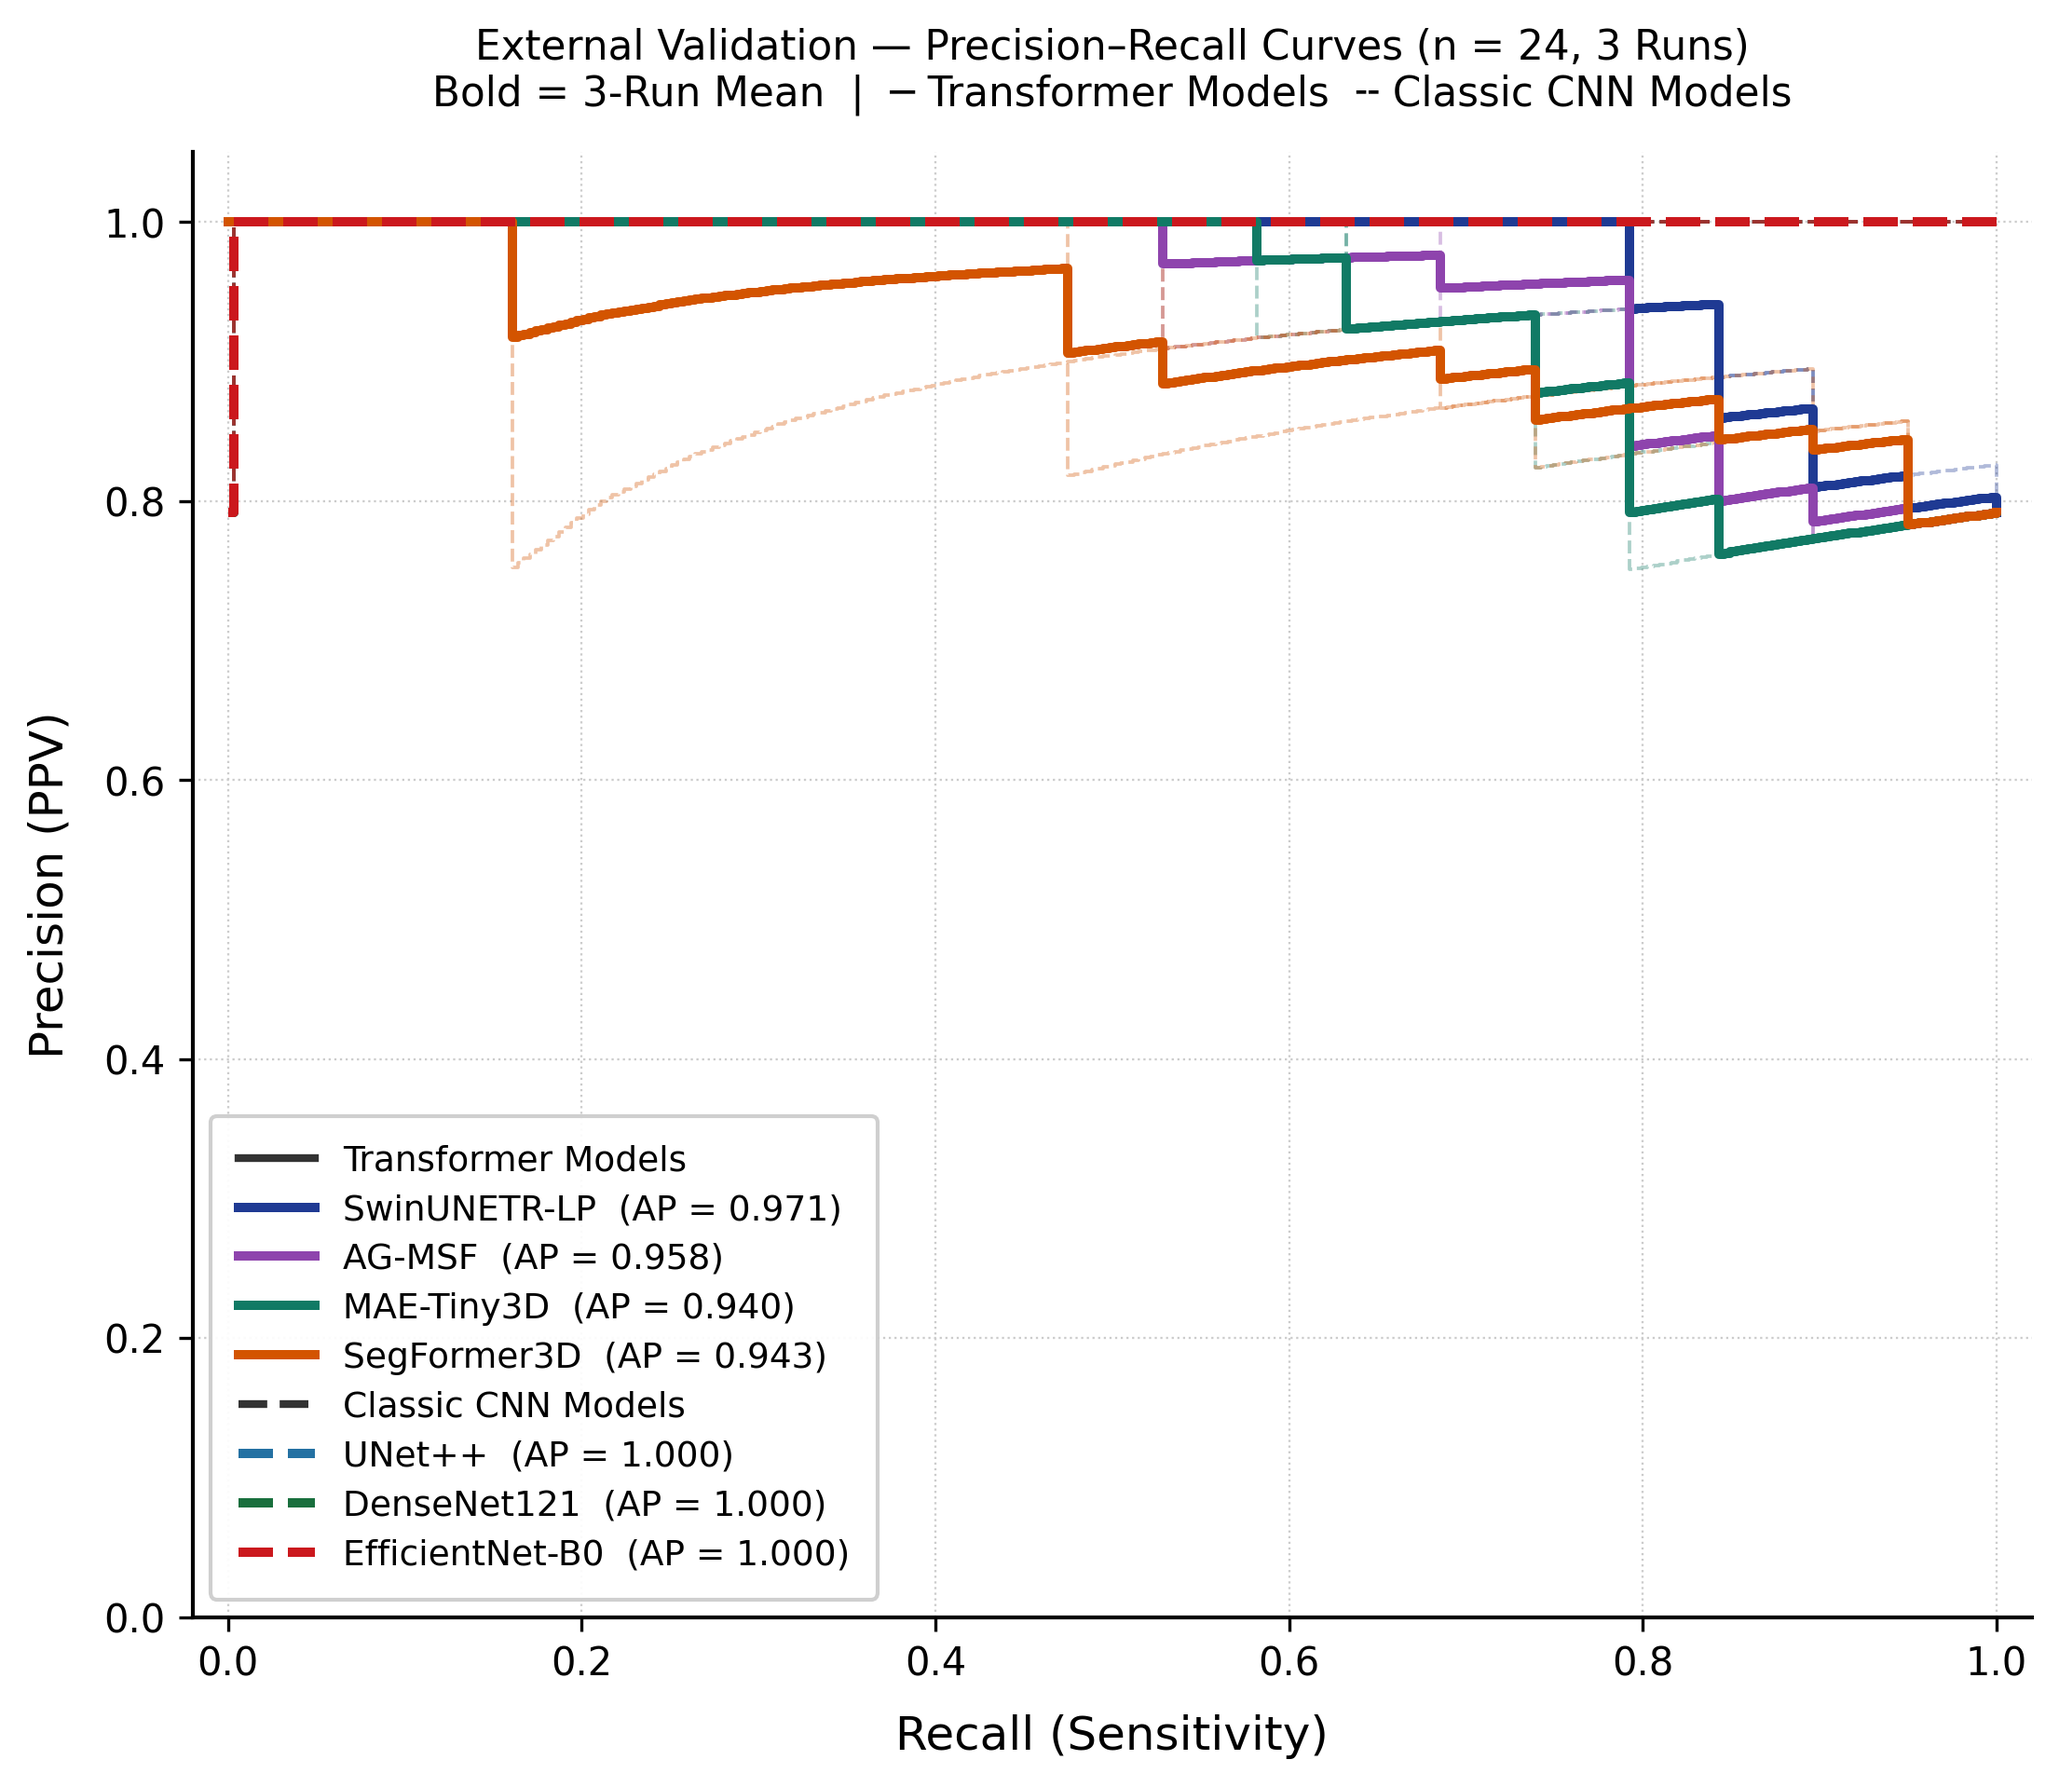
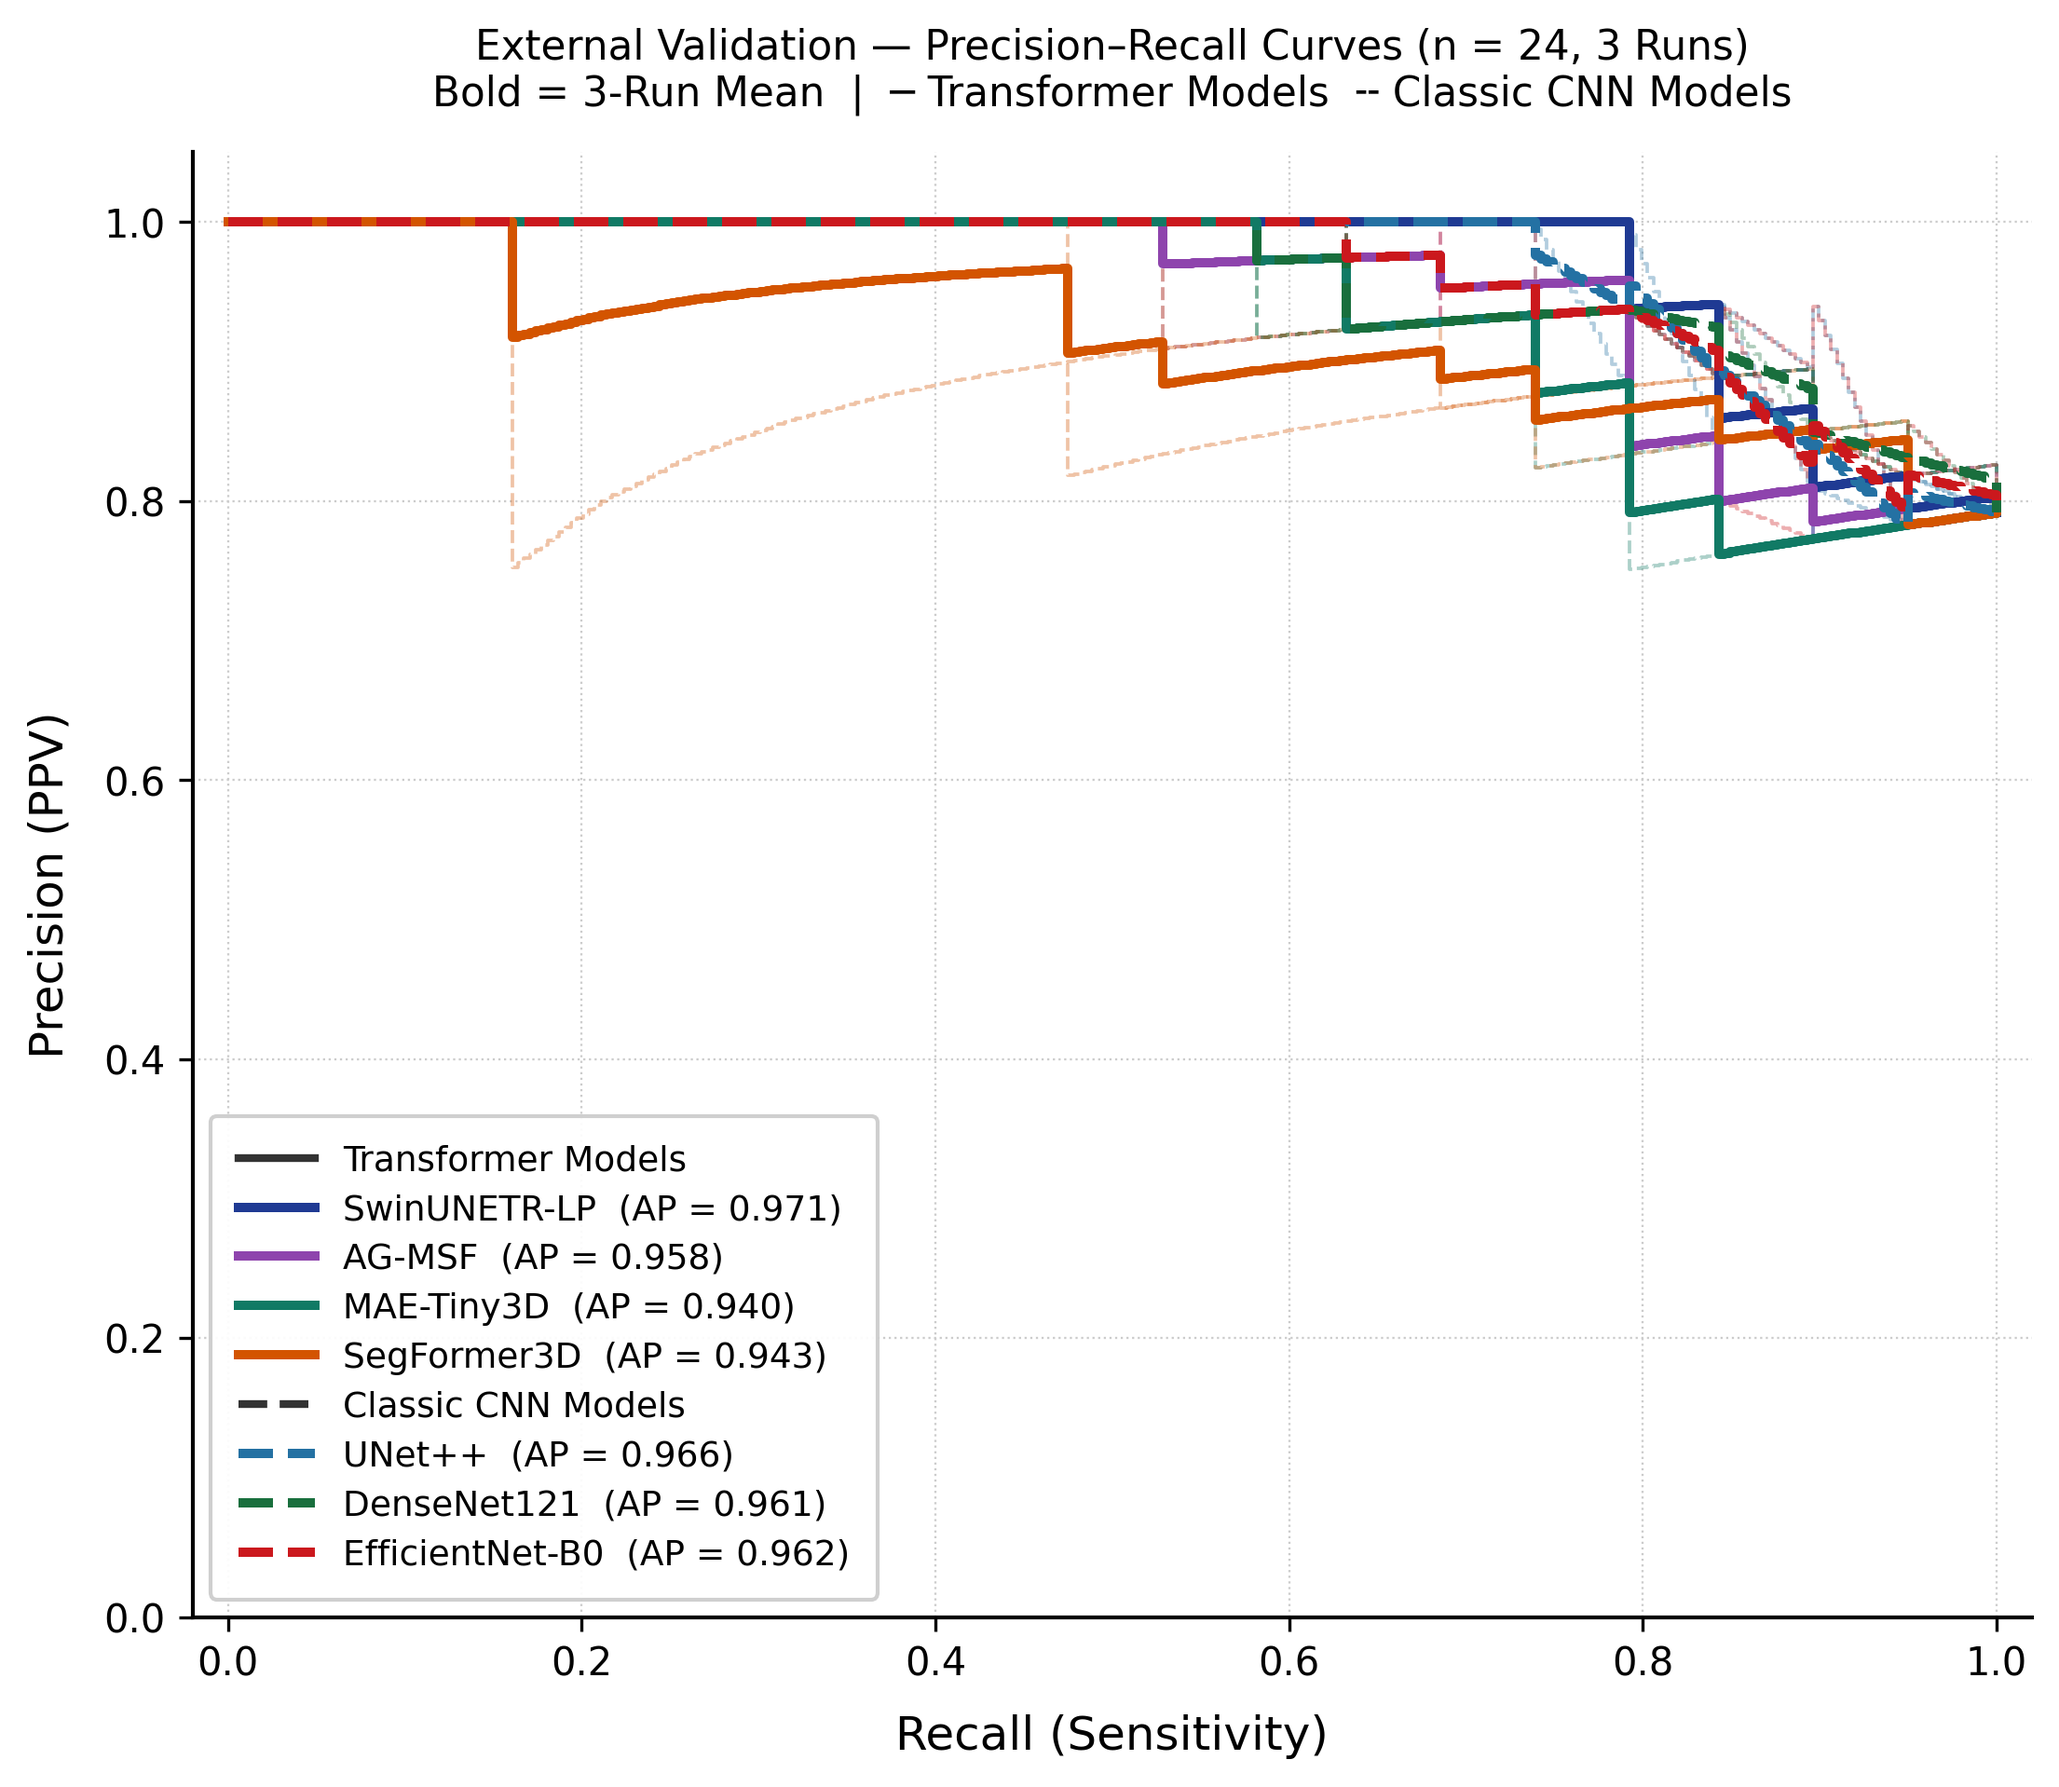
Fix np.interp inversion bug in CNN PR curves to display correct AP values (~0.96)

diff --git a/generate_combined_curves.py b/generate_combined_curves.py
@@ -131,8 +131,8 @@ def cnn_pr_runs(model_name):
     precs = []
     for run, grp in df_m.groupby("Run"):
         grp = grp.sort_values("Recall")
-        precs.append(np.interp(common_rec, grp["Recall"].values[::-1],
-                               grp["Precision"].values[::-1]))
+        precs.append(np.interp(common_rec, grp["Recall"].values,
+                               grp["Precision"].values))
     mean_prec = np.mean(precs, axis=0)
     # common_rec artan sırada (0'dan 1'e), trapz'nin pozitif sonuç vermesi için
     # x ekseninin artan veya azalan olması önemli, ancak mutlak değer garantidir.
